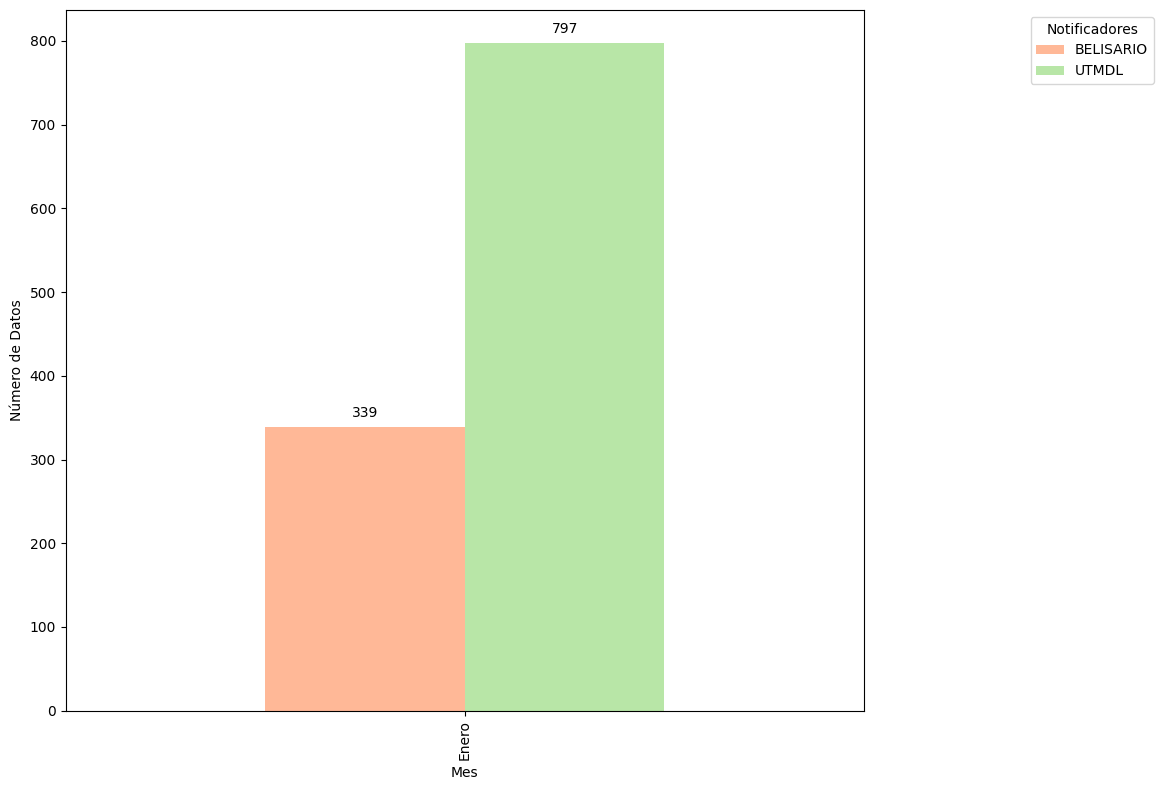
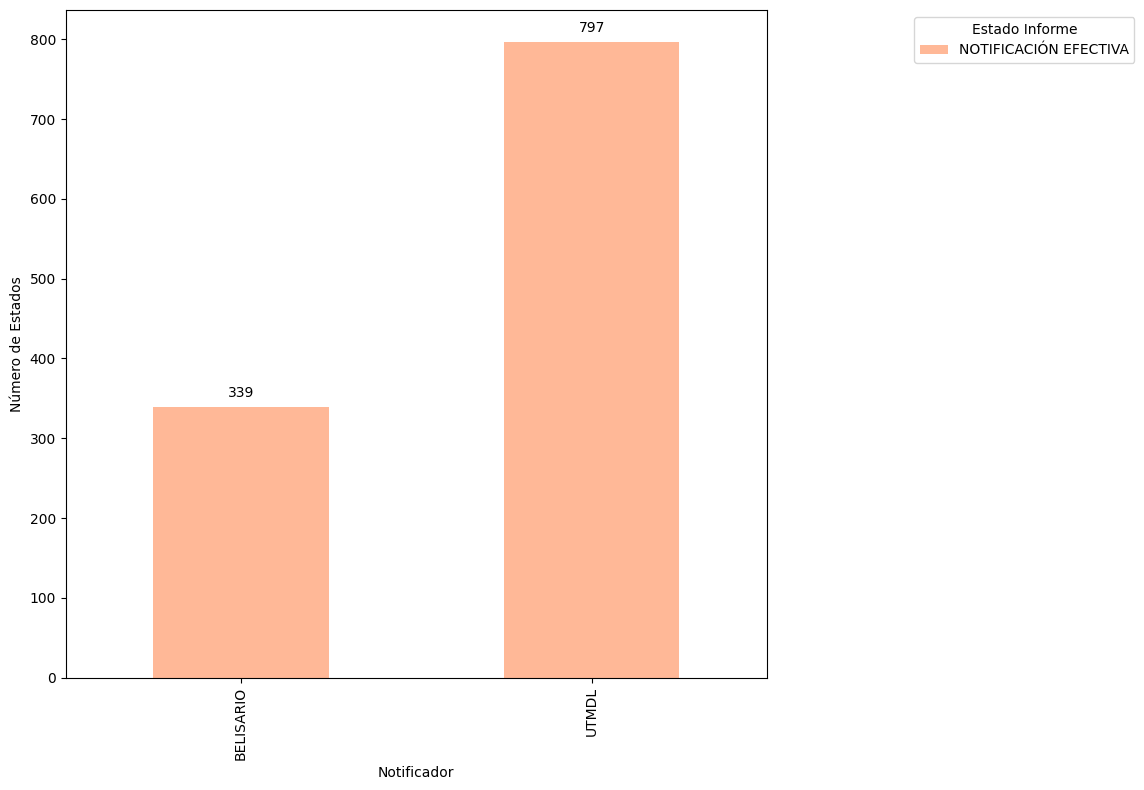
Todo en orden, gráficas de  HOJA MES cambiadas

diff --git a/views/proceso1.py b/views/proceso1.py
@@ -65,40 +65,79 @@ def graficapastel_comparativa_ano(df, nombre_hoja):
     return grafico_path
 
 # --------------------------------------------------------------- HOJA MES PCL/DTO_MES ----------------------------------------------------------------------------- #
-def graficas_barras_tabla_mes_belisario_utmdl(df, nombre_hoja, mes):
-    # Filtrar solo los datos de BELISARIO y UTMDL para el mes seleccionado
-    df_filtrado = df[(df['NOTIFICADOR'].isin(['BELISARIO', 'UTMDL'])) & (df['MES'] == mes)]
-    
-    # Debugging: Verifica que los datos filtrados sean correctos
-    print(f"Datos filtrados: {df_filtrado.head()}")
-    
-    conteo = df_filtrado.groupby(['MES', 'NOTIFICADOR']).size().unstack(fill_value=0)
-    conteo.index = conteo.index.map(lambda m: meses_en_espanol[m].capitalize())
-    
-    # Debugging: Verifica el conteo después de agrupar
-    print(conteo.head())  # Muestra las primeras filas del conteo
-    
-    # Crear la gráfica de barras
-    fig, ax = plt.subplots(figsize=(12, 8))
-    conteo.plot(kind='bar', ax=ax, color=colores)
-    ax.set_xlabel('Mes')
-    ax.set_ylabel('Número de Datos')
-    ax.legend(title='Notificadores', bbox_to_anchor=(1.2, 1), loc='upper left', fontsize=10)
+def graficas_barras_hojames(df, nombre_hoja, mes):
+    # Filtrar solo por el mes seleccionado (sin limitar por notificador)
+    df_filtrado = df[df['MES'] == mes]
+
+    print(f"Datos filtrados para {mes}:\n{df_filtrado[['NOTIFICADOR', 'ESTADO_INFORME']].head()}")
+
+    # Agrupar por NOTIFICADOR y ESTADO_INFORME
+    conteo = df_filtrado.groupby(['NOTIFICADOR', 'ESTADO_INFORME']).size().unstack(fill_value=0)
+
+    print("Tabla de conteo:\n", conteo)
+
+    # Crear gráfica de barras
+    fig, ax = plt.subplots(figsize=(14, 8))
+    conteo.plot(kind='bar', ax=ax, color=colores[:len(conteo.columns)])
+    ax.set_xlabel('Notificador')
+    ax.set_ylabel('Cantidad')
+    ax.set_title(f'Conteo de ESTADO_INFORME por NOTIFICADOR - {meses_en_espanol[mes].capitalize()}')
+    ax.legend(title='Estado Informe', bbox_to_anchor=(1.2, 1), loc='upper left', fontsize=10)
 
     for p in ax.patches:
-        ax.annotate(f'{p.get_height()}', 
-                    (p.get_x() + p.get_width() / 2., p.get_height()), 
-                    xytext=(0, 5),
-                    textcoords='offset points',
-                    ha='center', va='bottom', fontsize=10, color='black')
+        height = p.get_height()
+        if height > 0:
+            ax.annotate(f'{int(height)}',
+                        (p.get_x() + p.get_width() / 2., height),
+                        xytext=(0, 5),
+                        textcoords='offset points',
+                        ha='center', va='bottom', fontsize=9, color='black')
 
-    grafico_path = f"{nombre_hoja}_grafico_barras_belisario_utmdl_{mes}.png"
+    grafico_path = f"{nombre_hoja}_grafico_barras_estado_por_notificador_{mes}.png"
     plt.tight_layout()
     plt.savefig(grafico_path, transparent=True, bbox_inches="tight")
     return grafico_path
 
+def graficas_pastel_tabla_mes(df, nombre_hoja, mes):
+    df_mes = df[df['MES'] == mes]
+
+    tabla = (
+        df_mes
+        .groupby(['NOTIFICADOR', 'ESTADO_INFORME'])
+        .size()
+        .reset_index(name='TOTAL')
+    )
+
+    paths = []
+
+    for noti, sub in tabla.groupby('NOTIFICADOR'):
+        conteo = sub.set_index('ESTADO_INFORME')['TOTAL'].sort_values(ascending=False)
+
+        fig, ax = plt.subplots(figsize=(8, 6))
+        cmap = plt.cm.get_cmap('Paired', len(conteo))
+        ax.pie(
+            conteo,
+            labels=conteo.index,
+            autopct='%1.1f%%',
+            startangle=140,
+            colors=[cmap(i) for i in range(len(conteo))]
+        )
+        ax.set_title(
+            f'{noti} – Distribución ESTADO_INFORME '
+            f'{meses_en_espanol[mes].capitalize()}',
+            fontsize=14
+        )
+        ax.axis('equal')  
+
+        path = f"{nombre_hoja}_pastel_{noti.lower()}_{mes}.png"
+        plt.tight_layout()
+        plt.savefig(path, transparent=True, bbox_inches="tight")
+        plt.close(fig)
+
+        paths.append(path)
+
+    return paths
 # ------------------------------------------------------------------------------- HOJA: TABLA MES -------------------------------------------------------------
-#graficas_barras_tabla_mes
 def graficas_barras_tabla_mes(df, colores, nombre_hoja):
     conteo = df.groupby(['MES', 'NOTIFICADOR']).size().unstack(fill_value=0)
     conteo.index = conteo.index.map(lambda m: meses_en_espanol[m].capitalize())
@@ -129,7 +168,6 @@ def graficas_barras_tabla_mes(df, colores, nombre_hoja):
     grafico_path = f"{nombre_hoja}_grafico_barras.png"
     ax.get_figure().savefig(grafico_path, transparent=True, bbox_inches="tight")
     return grafico_path
-
 def graficas_pastel_tabla_mes(df, nombre_hoja):
     conteo = df.groupby('MES').size()
     conteo.index = conteo.index.map(lambda m: meses_en_espanol[m].capitalize())  
@@ -162,13 +200,12 @@ def crear_hoja_mes_seleccionado(libro, nombre_hoja, df, mes):
             hoja.cell(row=i, column=j, value=value)
 
     # Generar gráficos de barras y pastel por mes
-    grafico_barras_belisario_utmdl_path = graficas_barras_tabla_mes_belisario_utmdl(df, nombre_hoja, mes)  # Ahora pasa el mes
-    img_barras_belisario_utmdl = Image(grafico_barras_belisario_utmdl_path)
+    grafico_barras_hojames_path = graficas_barras_hojames(df, nombre_hoja, mes)
+    img_barras_belisario_utmdl = Image(grafico_barras_hojames_path)
     hoja.add_image(img_barras_belisario_utmdl, 'E5')
-
     # Generar gráfica de pastel para BELISARIO y UTMDL
-    grafico_belisario_utmdl_path = graficapastel_comparativa_ano(df, nombre_hoja)
-    img_belisario_utmdl = Image(grafico_belisario_utmdl_path)
+    grafico_pastel_hojames_path = graficas_pastel_tabla_mes(df, nombre_hoja)
+    img_belisario_utmdl = Image(grafico_pastel_hojames_path)
     hoja.add_image(img_belisario_utmdl, 'E35')  # Colocar la imagen más abajo en la hoja
 
 # Hoja "COMPARATIVA AÑO"
